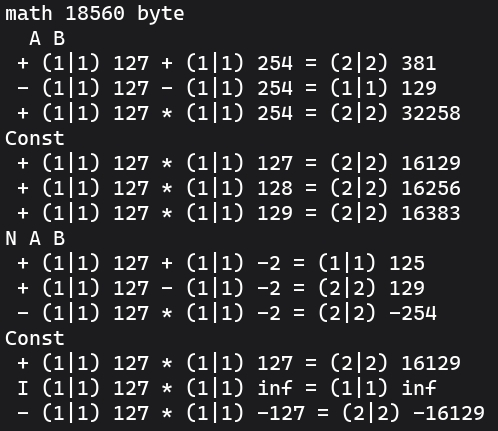
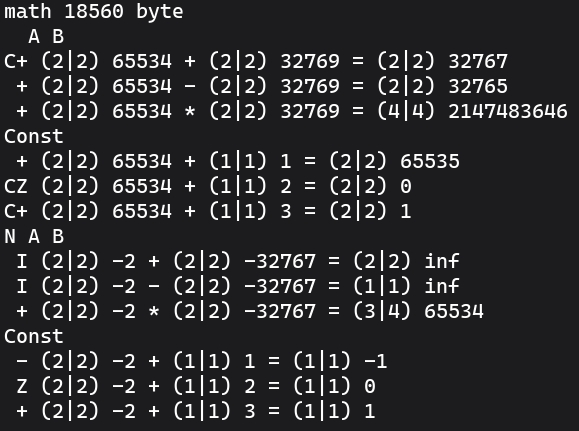
v13.9

Changed region(s): [[0.0, 0.0, 0.994, 0.9954], [0.8133, 0.8144, 0.994, 0.9954]]

diff --git a/math.c b/math.c
@@ -4,10 +4,10 @@
  * распространять ее и/или изменять согласно условиям Стандартной общественной 
  * лицензии GNU (GPLv3). 
  */
-
+ 
 #include "math.h"
-
 MATH_CACHE_INIT
+
 void FInit(anu x, anu y, an r, anu c, an a) { while(x--) *--r = 0;
   c = (c > y) ? y : c; while(c--) *r++ = *a++; }
 void FAddr(anu y, As* r, anu c, As* a) {
@@ -31,24 +31,30 @@ anu FVI(anu f, an r, anu l, an c) { if (l--) { if (f) { FSWAP(l, r, c); return F
 void FADD(an r, an a, anu l, an b) { Mat.N = l; Mat.r = r; Mat.a = a; Mat.b = b; Mat.lb = Mat.N;
   Mat.x = *(Mat.ae = Mat.a + Mat.l); Mat.na = (Mat.Nim && (Mat.x & 128)) ? 255:0; Mat.F = Mat.l;
   Mat.y = *(Mat.be = Mat.b + Mat.N); Mat.nb = (Mat.Nim && (Mat.y & 128)) ? 255:0; Mat.C = (Mat.C != 0);
-  while(*Mat.ae-- == Mat.na && Mat.F && (Mat.Nim ? !((*Mat.ae ^ Mat.na) & 128):1)) { Mat.F--; }  
+  while(*Mat.ae-- == Mat.na && Mat.F && (Mat.Nim ? !((*Mat.ae ^ Mat.na) & 128):1)) { Mat.F--; }
   while(*Mat.be-- == Mat.nb && Mat.N && (Mat.Nim ? !((*Mat.be ^ Mat.nb) & 128):1)) { Mat.N--; }
   if (Mat.Nim) { if ((Mat.x == 128 && Mat.F == Mat.l) || (Mat.y == 128 && Mat.N == Mat.lb)) { Mat.i = Mat.F;
       Mat.j = Mat.N; while(Mat.i && !*Mat.ae--) { Mat.i--; } while(Mat.j && !*Mat.be--) { Mat.j--; }
-      if (!(Mat.i && Mat.j)) { Mat.F = 2; Mat.N = 255; *Mat.r = 128; Mat.l = 0; return; } } }
-  Mat.l = (Mat.F > Mat.N) ? Mat.F:Mat.N; Mat.j = (Mat.F > Mat.N) ? Mat.N:Mat.F;
-  Mat.i = Mat.j++; Mat.F -= Mat.i; Mat.N -= Mat.i; Mat.e = Mat.b;
-  do { Mat.x = *Mat.a++; Mat.y = (*Mat.r++ = Mat.x + *Mat.e++ + Mat.C);
+      if (!(Mat.i && Mat.j)) { Mat.F = 2; Mat.N = 255; Mat.l = Mat.V ? Mat.l:0; Mat.i = Mat.l;
+        while(Mat.i--) { *Mat.r++ = 0; } *Mat.r = 128; return; } } }
+  
+  Mat.t = 1; if (Mat.V && Mat.N > Mat.l) { Mat.N = Mat.l; Mat.t--; } Mat.j = (Mat.F > Mat.N) ? Mat.N:Mat.F;
+  
+  Mat.i = Mat.j++; Mat.F -= Mat.i; Mat.N -= Mat.i; Mat.ae = Mat.r; Mat.be = Mat.b;
+  do { Mat.x = *Mat.a++; Mat.y = (*Mat.ae++ = Mat.x + *Mat.be++ + Mat.C);
     Mat.C = (Mat.x > Mat.y) || (Mat.C && Mat.y == Mat.x); } while(--Mat.j);
-  if (Mat.N) do { Mat.x = *Mat.e++; Mat.y = (*Mat.r++ = Mat.na + Mat.x + Mat.C);
+  if (Mat.N) do { Mat.x = *Mat.be++; Mat.y = (*Mat.ae++ = Mat.na + Mat.x + Mat.C);
     Mat.C = (Mat.x > Mat.y) || (Mat.C && Mat.y == Mat.x); } while(--Mat.N);
-  else while(Mat.F--) { Mat.x = *Mat.a++; Mat.y = (*Mat.r++ = Mat.x + Mat.nb + Mat.C);
+  else while(Mat.F--) { Mat.x = *Mat.a++; Mat.y = (*Mat.ae++ = Mat.x + Mat.nb + Mat.C);
       Mat.C = (Mat.x > Mat.y) || (Mat.C && Mat.y == Mat.x); }
-  Mat.e = --Mat.r; Mat.j = Mat.l; while(Mat.j-- && !*--Mat.e) { } Mat.j++;
-  Mat.N = (Mat.Nim && (Mat.y & 128)) ? 255:0;
-  if (Mat.Nim) Mat.C = ((!(Mat.na ^ Mat.nb) && (Mat.na ^ Mat.N)) || (!Mat.j && Mat.y == 128));
-  if (Mat.C && Mat.l != 255) { Mat.l++; Mat.j |= Mat.y; *++Mat.r = Mat.Nim ? Mat.N:Mat.C; Mat.C--; }
-  Mat.N = (Mat.Nim && (*Mat.r & 128)) ? 255:0; if ((Mat.F = !(Mat.j | *Mat.r))) Mat.l = 0; }
+  
+  Mat.l = --Mat.ae - Mat.r; if (Mat.t) {
+    Mat.be = Mat.ae; Mat.j = Mat.l; while(Mat.j && !*--Mat.be) { Mat.j--; }
+    Mat.N = (Mat.Nim && (Mat.y & 128)) ? 255:0;
+    if (Mat.Nim) Mat.C = ((!(Mat.na ^ Mat.nb) && (Mat.na ^ Mat.N)) || (!Mat.j && Mat.y == 128));
+    if (!Mat.V && Mat.C && Mat.l != 255) { Mat.j |= Mat.y; *++Mat.ae = Mat.N | Mat.C--; Mat.l++; }
+    Mat.F = (!(Mat.j | *Mat.ae)); return; } Mat.F = 0; Mat.N = 0; if (Mat.Nim) { Mat.l = Mat.V ? Mat.l:0;
+    Mat.i = Mat.l; while(Mat.i--) { *Mat.r++ = 0; } *Mat.r = 128; Mat.F = 2; Mat.N--; Mat.C = 0; } }
 
 void FSUB(an r, an a, anu l, an b) { Mat.N = l; Mat.r = r; Mat.a = a; Mat.b = b; Mat.lb = Mat.N;
   Mat.x = *(Mat.ae = Mat.a + Mat.l); Mat.na = (Mat.Nim && (Mat.x & 128)) ? 255:0; Mat.F = Mat.l;
@@ -84,7 +90,7 @@ void FMUL(an r, an a, anu l, an b) { Mat.N = l; Mat.r = r; Mat.a = a; Mat.b = b;
   if (Mat.Nim) { if (!Mat.N && Mat.y == 128 && Mat.lb == Mat.j) Mat.t++;
     if (Mat.t || (!Mat.F && Mat.x == 128 && Mat.l == Mat.i)) Mat.t++; } if (Mat.t || (Mat.i > Mat.k)) {
     Mat.F = 2; Mat.N = 255; *r = 128; Mat.l = 0; Mat.C = !Mat.t; return; }
-  Mat.l = Mat.k; Mat.i -= Mat.F; Mat.j -= Mat.N; Mat.i += Mat.j; Mat.e = &Mat.H.l; Mat.ae = &Mat.L.l;
+  Mat.l = Mat.k; Mat.i -= Mat.F; Mat.j -= Mat.N; Mat.i += Mat.j; Mat.e = (an)Mat.H; Mat.ae = (an)Mat.L;
   if (Mat.F > Mat.N) { Mat.j = Mat.F; if (Mat.na) { Mat.t = 1;
       do Mat.t = !(*Mat.e++ = ~*Mat.a++ + Mat.t); while(Mat.j--); }
     else do *Mat.e++ = *Mat.a++; while(Mat.j--);
@@ -94,10 +100,10 @@ void FMUL(an r, an a, anu l, an b) { Mat.N = l; Mat.r = r; Mat.a = a; Mat.b = b;
     else do *Mat.e++ = *Mat.be++; while(Mat.j--);
     Mat.j = Mat.N; if (Mat.na) { Mat.t = 1; do Mat.t = !(*Mat.ae++ = ~*Mat.a++ + Mat.t); while(Mat.j--); }
     else do *Mat.ae++ = *Mat.a++; while(Mat.j--); } *Mat.ae = 0; Mat.N++; Mat.e = Mat.r; Mat.e += Mat.i;
-  Mat.ae = Mat.r; *Mat.ae++ = Mat.C; Mat.j = Mat.l; do *Mat.ae++ = 0; while(Mat.j--); Mat.ae = &Mat.H.l;
+  Mat.ae = Mat.r; *Mat.ae++ = Mat.C; Mat.j = Mat.l; do *Mat.ae++ = 0; while(Mat.j--); Mat.ae = (an)Mat.H;
   do { if ((Mat.i = *Mat.ae++)) {
-         Mat.a = &Mat.S.l; Mat.be = &Mat.L.l; Mat.j = Mat.N; do *Mat.a++ = *Mat.be++; while(Mat.j--);
-         do { Mat.t = 0; Mat.be = &Mat.S.l; Mat.j = Mat.N;
+         Mat.a = (an)Mat.S; Mat.be = (an)Mat.L; Mat.j = Mat.N; do *Mat.a++ = *Mat.be++; while(Mat.j--);
+         do { Mat.t = 0; Mat.be = (an)Mat.S; Mat.j = Mat.N;
            if (!(Mat.i & 1)) { do { Mat.k = *Mat.be; *Mat.be++ = (Mat.k << 1) | Mat.t;
                Mat.t = (Mat.k & 128) ? 1:0; } while(Mat.j--); } else { Mat.a = Mat.e; Mat.C = 0;
                do { Mat.k = *Mat.be; Mat.x = *Mat.a; Mat.y = (*Mat.a++ = (Mat.x + Mat.k + Mat.C));

diff --git a/math.h b/math.h
@@ -4,10 +4,10 @@
  * распространять ее и/или изменять согласно условиям Стандартной общественной
  * лицензии GNU (GPLv3).
  */
-
 #ifndef MATH_H
 #define MATH_H
 #include <stdint.h>
+
 // Begin 05.07.2026 in Russia                  As (As      अः   основа, бытие, существовать)
 // anu (anu     अणु   атом)                      an (anka    अङ्क цифра, число)
 // Nim (Nimitta निमित्त {знаковое} представление)  V (Vṛddhi  वृद्धि     увеличение {разрядности})
@@ -26,14 +26,13 @@
 typedef uintptr_t As;                           // основа, разрядность процессора
 typedef uint8_t anu;                            // атом, минимальная единица
 typedef anu* an;                                // число, начальный адрес расположения
-typedef struct { anu l, m[254], h; } MatBuf;    // 256 атомов
-typedef struct { anu Nim, V, l, lb, le, C, F, N, Fe, Ne,  // Fset({Nim{,V{,la{,lb}}}});
-  na, nb, x, y, i, j, k, t; MatBuf H, L, S;               // Flong({la{,lb}});
-  an R, E, A, B, r, e, a, b, ae, be; } Math;    // Структура реализации автомата
+typedef struct { anu H[255],L[255],S[255], Nim, V, l, lb,  // Fset({Nim{,V{,la{,lb}}}});
+  le, C, F, N, Fe, Ne, na, nb, x,y,i,j,k,t;                // Flong({la{,lb}});
+  an r,e,a, b, ae,be, R, E, A, B; } Math;       // Структура реализации автомата
 void FInit(anu x, anu y, an r, anu c, an a);    // Fini({Nim{,V{,la{,lb}}}}); Nim=V=l=lb..Ne=0
 void FAddr(anu y, As* r, anu c, As* a);         // Faddr({(As)r{,(As)e{,(As)a{,(As)b}}}});
 void FSWAP(anu l, an r, an a);                  // Зеркалирование атомов длиной l относительно центра
-anu FMOV(anu l, an r, an a);                    // Копирование числа и автонормализация
+anu FMOV(anu l, an r, an a);                    // Копирование числа
 anu FCOLD(anu f, anu l, an r, an a);            // Приведение к формату l = 1,2,4,8,16,32,64,128,256
 anu FVI(anu f, an r, anu l, an c);              // Копирование из константы в переменную на выходе l
 void FADD(an r, an a, anu l, an b);             // Сложение r = a + b
@@ -44,6 +43,7 @@ void FMUL(an r, an a, anu l, an b);             // Умножение r = a * b
 void FMULc(an r, an a, anu l, an c);            // r = a * Const
 void FDIV(an r, an e, an a, anu l, an b);       // Деление r = a / b, e = a mod b - Евклид {+}
 void FDIVc(an r, an e, an a, anu l, an c);      // r = a / Const, e = a mod Const
+
 extern Math Mat;
 #define MATH_CACHE_INIT Math Mat = {0};
 #define Anu(...) (anu)(sizeof((anu[]){0, ##__VA_ARGS__})-1), (anu[]){0, ##__VA_ARGS__}+1

diff --git a/main.c b/main.c
@@ -20,13 +20,13 @@ void Num(anu s, an a) { anu ns, t[m]; if (s > 8) { printf(" %d|? ", s + 1); retu
     else if (ns) printf("%u ", *(uint16_t*)a); else printf("%u ", *(uint8_t*)a); } }
 void Show(char s) { Flong(la,lb); Mat.C = 0;
   if (s == '+') FAdd(); else if (s == '-') FSub(); else if (s == '*') FMul(); else if (s == '/') FDiv();
-  else { FMulc(127); } printf("%c%c ", Mat.C ? 'C':' ', Mat.F ? (Mat.N ? 'I':'Z') : (Mat.N ? '-':'+'));
-  Num(la, Mat.A); if (s == 'c') printf("* "); else { printf("%c ", s); } Num(Mat.lb, Mat.b); printf("= "); Num(Mat.l, Mat.R);
+  else { FAddc(1); } printf("%c%c ", Mat.C ? 'C':' ', Mat.F ? (Mat.N ? 'I':'Z') : (Mat.N ? '-':'+'));
+  Num(la, Mat.A); if (s == 'c') printf("+ "); else { printf("%c ", s); } Num(Mat.lb, Mat.b); printf("= "); Num(Mat.l, Mat.R);
   if (s == '/') { printf("  %c ", Mat.Fe ? (Mat.Ne ? 'I':'Z') : (Mat.Ne ? '-':'+')); Num(Mat.le, Mat.E); } printf("\n"); }
 void Const(void) { an sb; anu l, i = 2; printf("Const\n"); Show('c'); sb = Mat.B;
-  Mat.B = Mat.b; l = lb; lb = Mat.lb; while(i--) { (*Mat.B)++; Show('*'); } Mat.B = sb; lb = l; }
+  Mat.B = Mat.b; l = lb; lb = Mat.lb; while(i--) { (*Mat.B)++; Show('+'); } Mat.B = sb; lb = l; }
 void Test(void) { printf("%c A B\n", Mat.Nim ? 'N':' '); Show('+'); Show('-'); Show('*'); /*Show('/');*/Const(); }
 
 int main(void) { anu a[m], b[m], e[m], r[m+m]; Faddr((As)r, (As)e, (As)a, (As)b);
-  Fini(); la = Fbvi(Mat.A, 127); lb = Fvi(Mat.B, 254); Test();
+  Fini(0,1); la = Fbvi(Mat.A, 255,254); lb = Fvi(Mat.B, 1,128); Test();
   Fset(1); la = Fmov(la, Mat.A); lb = Fmov(lb, Mat.B); Test(); return 0; }
